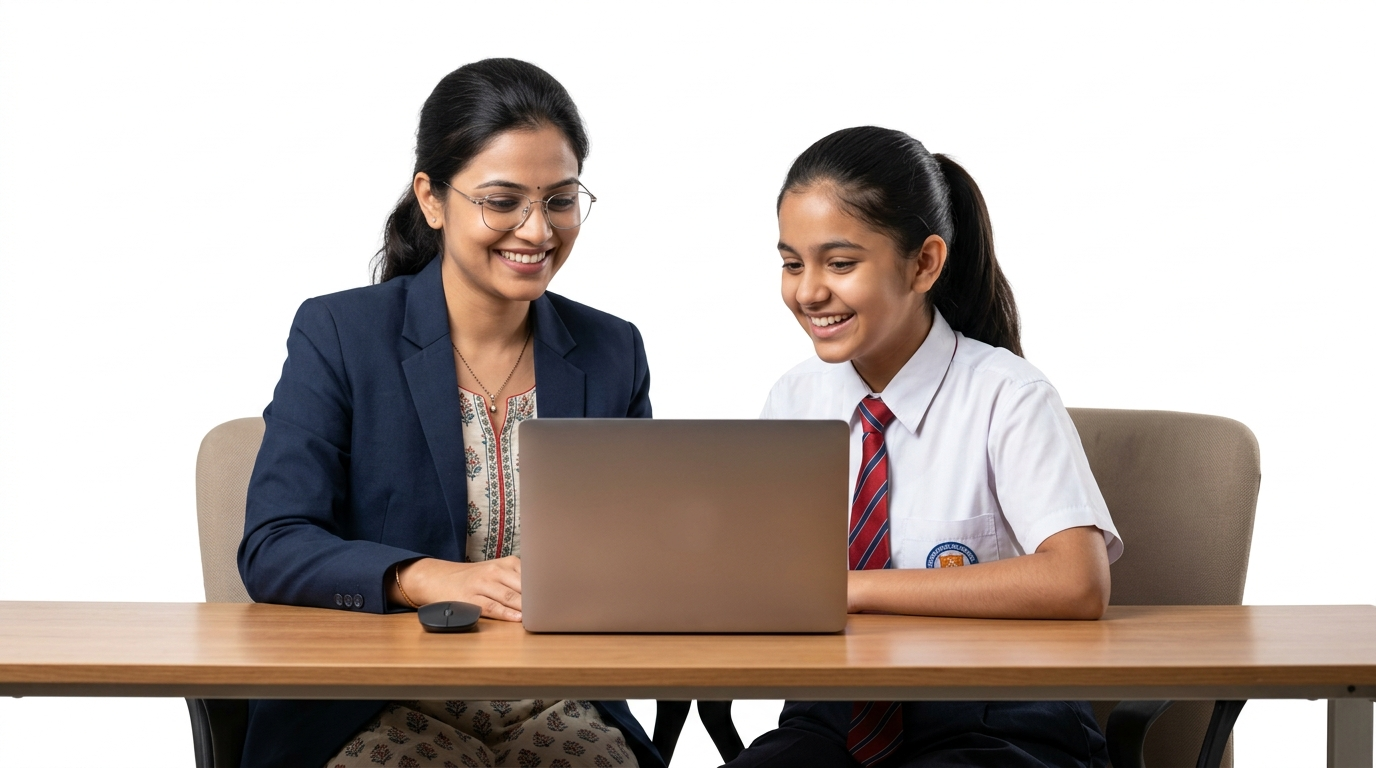
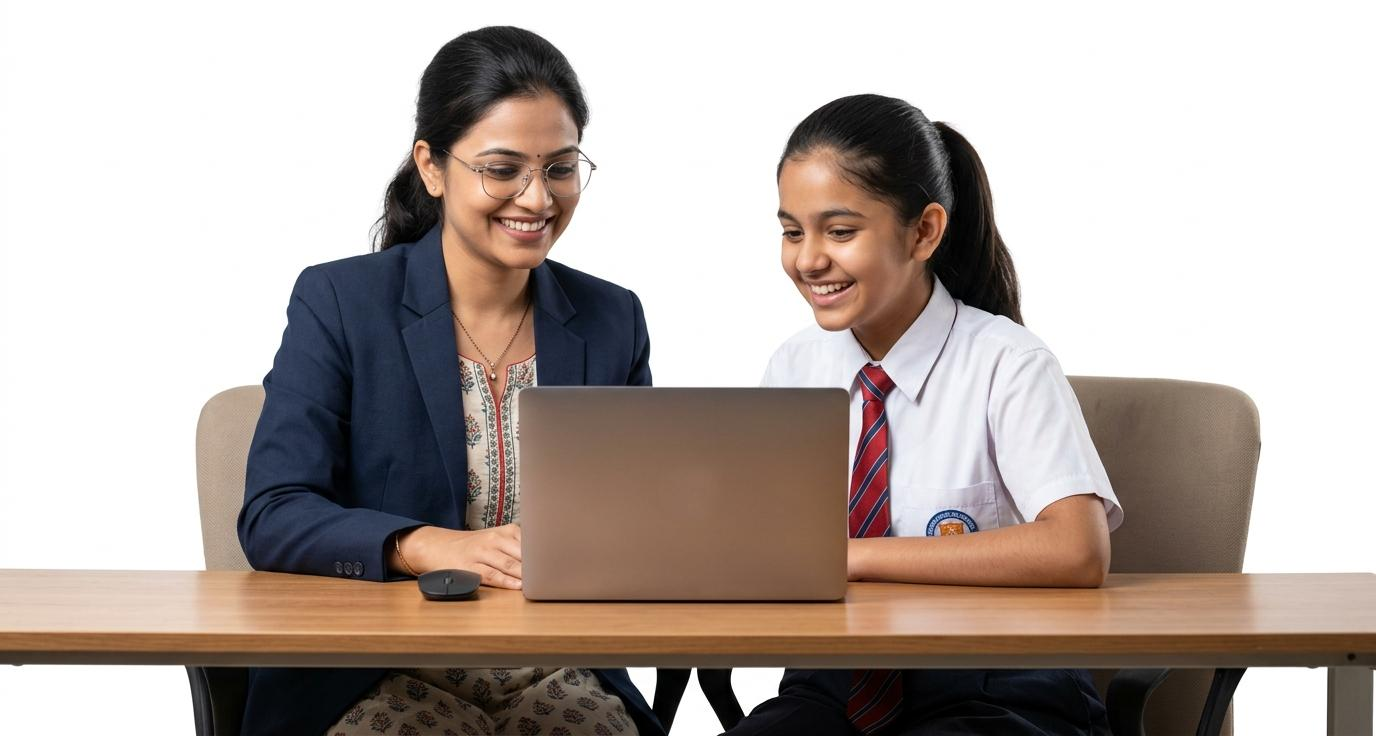
feat: tightly crop Hero cutout around subjects and enhance multi-layered SVG Flower Scribble Loop pattern

diff --git a/src/app/page.tsx b/src/app/page.tsx
@@ -302,7 +302,7 @@ export default function HomePage() {
                 </div>
               </div>
 
-              {/* Right Column: Hero Young Teacher Cutout & Rich Background Typography + Badges */}
+               {/* Right Column: Hero Young Teacher Cutout & Rich Background Flower Scribbles + Badges */}
               <div style={{ position: 'relative', minHeight: '460px', display: 'flex', alignItems: 'center', justifyContent: 'center' }}>
                 {/* Academic Keyword Watermark Typography in Background */}
                 <div style={{
@@ -312,8 +312,8 @@ export default function HomePage() {
                   flexDirection: 'column',
                   justifyContent: 'space-around',
                   pointerEvents: 'none',
-                  opacity: 0.08,
-                  fontSize: '2.5rem',
+                  opacity: 0.07,
+                  fontSize: '2.4rem',
                   fontWeight: 900,
                   letterSpacing: '0.1em',
                   color: 'var(--brand-teal)',
@@ -326,47 +326,62 @@ export default function HomePage() {
                   <div style={{ whiteSpace: 'nowrap', transform: 'rotate(-3deg)' }}>MATHS • PHYSICS • CHEMISTRY • ACCOUNTS</div>
                 </div>
 
-                {/* SVG Dual-Tone Gradient Organic Scribble Loop Pattern */}
+                {/* Rich Multi-Layered SVG Flower Scribble Loop Pattern (Figma Prototype Style) */}
                 <svg
                   style={{
                     position: 'absolute',
-                    top: '-25%',
-                    right: '-15%',
-                    width: '135%',
-                    height: '150%',
+                    top: '-30%',
+                    right: '-20%',
+                    width: '145%',
+                    height: '160%',
                     pointerEvents: 'none',
-                    opacity: 0.75,
+                    opacity: 0.85,
                     zIndex: 0,
                   }}
-                  viewBox="0 0 600 600"
+                  viewBox="0 0 700 700"
                   fill="none"
                   xmlns="http://www.w3.org/2000/svg"
                 >
                   <defs>
-                    <linearGradient id="scribbleGradient" x1="0%" y1="0%" x2="100%" y2="100%">
-                      <stop offset="0%" stopColor="#0D9488" />
-                      <stop offset="100%" stopColor="#2DD4BF" />
+                    <linearGradient id="flowerGradientMain" x1="0%" y1="0%" x2="100%" y2="100%">
+                      <stop offset="0%" stopColor="#0D9488" stopOpacity="0.9" />
+                      <stop offset="50%" stopColor="#2DD4BF" stopOpacity="0.8" />
+                      <stop offset="100%" stopColor="#64748B" stopOpacity="0.4" />
+                    </linearGradient>
+                    <linearGradient id="flowerGradientSub" x1="100%" y1="0%" x2="0%" y2="100%">
+                      <stop offset="0%" stopColor="#2DD4BF" stopOpacity="0.7" />
+                      <stop offset="100%" stopColor="#CBD5E1" stopOpacity="0.5" />
                     </linearGradient>
                   </defs>
+
+                  {/* Main Flower Petal Organic Loop 1 */}
                   <path
-                    d="M120,300 C60,180 180,60 320,120 C460,180 520,320 400,440 C280,560 120,440 180,300 C240,160 420,100 480,240 C540,380 380,520 220,460 C60,400 80,220 240,140 C400,60 540,200 460,360 C380,520 200,480 140,340 C80,200 220,100 360,160 C500,220 480,400 320,480"
-                    stroke="url(#scribbleGradient)"
-                    strokeWidth="2.2"
+                    d="M150,350 C80,200 220,80 380,140 C540,200 600,380 460,500 C320,620 140,500 200,350 C260,200 480,120 540,280 C600,440 420,580 240,520 C80,460 100,260 280,160 C460,60 620,220 520,400 C420,580 220,540 160,380 C100,220 260,100 420,180 C580,260 540,460 360,540"
+                    stroke="url(#flowerGradientMain)"
+                    strokeWidth="2.5"
                     strokeLinecap="round"
                   />
+
+                  {/* Secondary Inner Flower Loop 2 */}
                   <path
-                    d="M200,220 C140,120 280,80 380,180 C480,280 400,420 260,380 C120,340 160,180 280,160 C400,140 480,260 400,400 C320,540 180,440 220,300"
-                    stroke="#94A3B8"
-                    strokeWidth="1.5"
+                    d="M220,260 C160,140 320,100 420,200 C520,300 440,460 300,420 C160,380 200,200 320,180 C440,160 520,280 440,440 C360,600 200,480 250,340"
+                    stroke="url(#flowerGradientSub)"
+                    strokeWidth="1.8"
                     strokeLinecap="round"
                   />
+
+                  {/* Accent Flower Sparkles */}
+                  <circle cx="160" cy="180" r="4" fill="#0D9488" opacity="0.6" />
+                  <circle cx="540" cy="140" r="6" fill="#2DD4BF" opacity="0.8" />
+                  <circle cx="580" cy="440" r="5" fill="#0D9488" opacity="0.5" />
+                  <circle cx="120" cy="480" r="4" fill="#94A3B8" opacity="0.6" />
                 </svg>
 
-                {/* Top-Left Floating Badge */}
+                {/* Top-Left Floating Trust Badge */}
                 <div style={{
                   position: 'absolute',
-                  top: '10px',
-                  left: '0px',
+                  top: '5px',
+                  left: '-10px',
                   zIndex: 4,
                 }}>
                   <div className="apple-card float-card-1" style={{ padding: '0.5rem 0.85rem', display: 'flex', alignItems: 'center', gap: '0.4rem', fontSize: '0.8rem', fontWeight: 800, backgroundColor: '#FFFFFF' }}>
@@ -375,11 +390,11 @@ export default function HomePage() {
                   </div>
                 </div>
 
-                {/* Top-Right Floating Badge */}
+                {/* Top-Right Floating Trust Badge */}
                 <div style={{
                   position: 'absolute',
-                  top: '20px',
-                  right: '0px',
+                  top: '15px',
+                  right: '-10px',
                   zIndex: 4,
                 }}>
                   <div className="apple-card float-card-2" style={{ padding: '0.5rem 0.85rem', display: 'flex', alignItems: 'center', gap: '0.4rem', fontSize: '0.8rem', fontWeight: 800, backgroundColor: '#FFFFFF', color: '#047857' }}>
@@ -388,17 +403,17 @@ export default function HomePage() {
                   </div>
                 </div>
 
-                {/* Pulsing Background Teal Aura */}
+                {/* Pulsing Background Soft Mint Glow Aura */}
                 <div style={{
                   position: 'absolute',
-                  inset: '-10px',
+                  inset: '-15px',
                   borderRadius: '50%',
-                  background: 'radial-gradient(circle, rgba(13, 148, 136, 0.14) 0%, transparent 68%)',
+                  background: 'radial-gradient(circle, rgba(13, 148, 136, 0.16) 0%, transparent 68%)',
                   pointerEvents: 'none',
                   zIndex: 1,
                 }} />
 
-                {/* Seamless Cutout Image Placement */}
+                {/* Tightly Cropped Cutout Image Placement (Zero Rectangle Box) */}
                 <div style={{ position: 'relative', zIndex: 2, width: '100%', display: 'flex', justifyContent: 'center' }}>
                   {/* eslint-disable-next-line @next/next/no-img-element */}
                   <img
@@ -406,9 +421,9 @@ export default function HomePage() {
                     alt="Young 25yo Indian Female Teacher with Glasses and Girl Student in Gurgaon"
                     style={{
                       width: '100%',
-                      maxWidth: '480px',
+                      maxWidth: '520px',
                       height: 'auto',
-                      borderRadius: '24px',
+                      borderRadius: '20px',
                       display: 'block',
                       mixBlendMode: 'multiply',
                     }}
